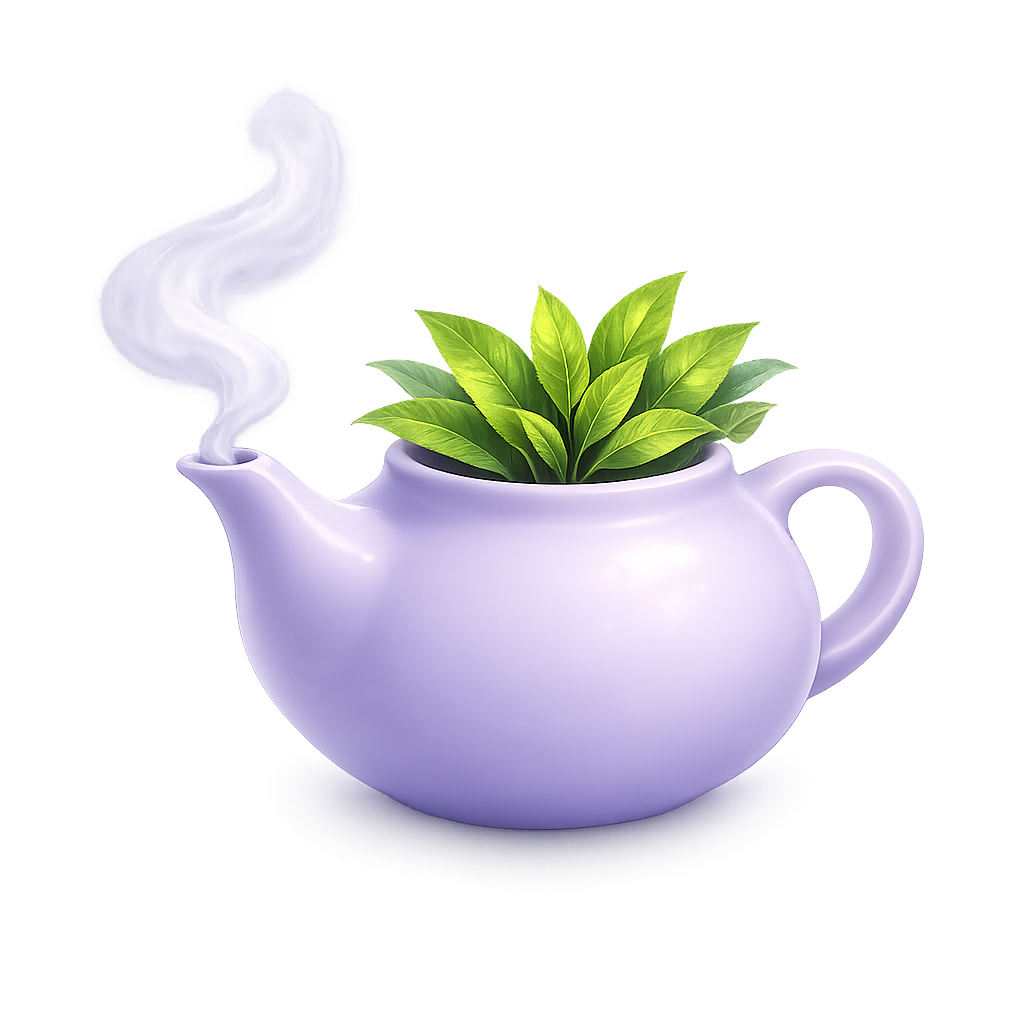
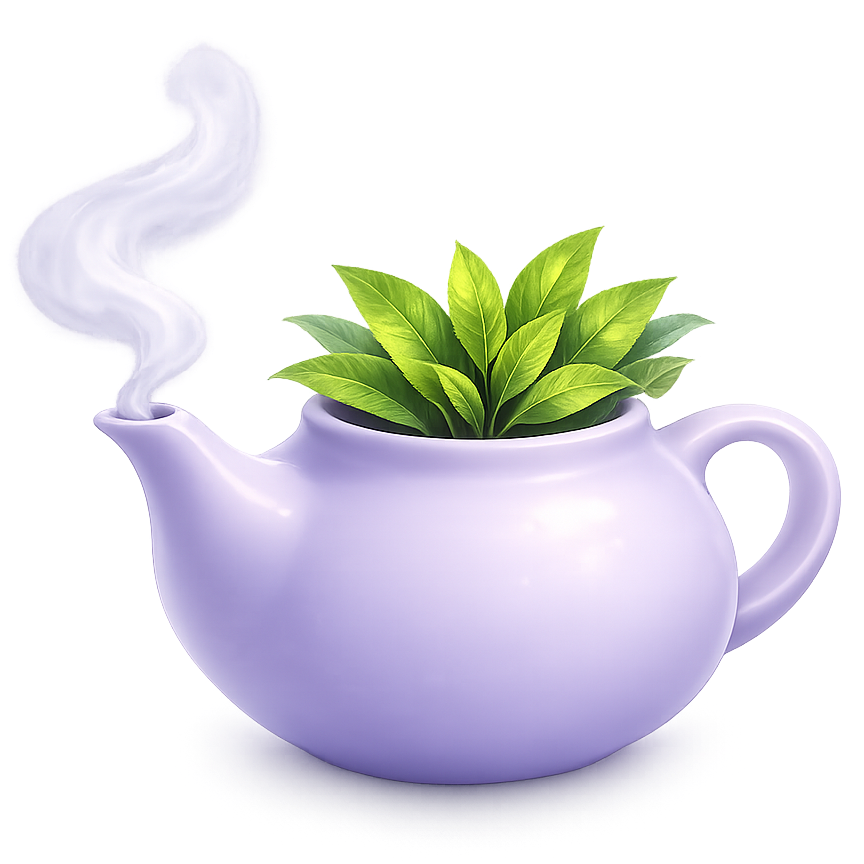
Fix install workflow and datastorage

diff --git a/.apps/priorities/index.html b/.apps/priorities/index.html
@@ -121,6 +121,7 @@
     var FONT_KEY = 'wizardry.priorities.font';
     var UI_SCALE_KEY = 'wizardry.priorities.uiScale';
     var TEXT_SCALE_KEY = 'wizardry.priorities.textScale';
+    var ROOT_KEY = 'priorities.root';
     var THEME_ASSET_VERSION = 'priorities20260220a';
     var DEFAULT_THEMES = [
       'adept', 'alchemist', 'archmage', 'athenian', 'chronomancer', 'conjurer', 'druid',
@@ -162,23 +163,81 @@
       windowWidthRequested: 0,
       windowHeightRequested: 640,
       windowAutoGrowTimer: null,
-      windowSizingReady: false
+      windowSizingReady: false,
+      uiPrefs: {},
+      rootPrefSaveTimer: null
     };
 
-    function loadStorage(key) {
+    function parseKeyValueText(blob) {
+      var out = {};
+      String(blob || '').split('\n').forEach(function (line) {
+        if (!line) {
+          return;
+        }
+        var idx = line.indexOf('=');
+        if (idx <= 0) {
+          return;
+        }
+        out[line.slice(0, idx)] = line.slice(idx + 1);
+      });
+      return out;
+    }
+
+    function prefNameForStorageKey(storageKey) {
+      if (storageKey === THEME_KEY) return 'theme';
+      if (storageKey === FONT_KEY) return 'font';
+      if (storageKey === UI_SCALE_KEY || storageKey === TEXT_SCALE_KEY) return 'ui_scale';
+      if (storageKey === ROOT_KEY) return 'root';
+      return '';
+    }
+
+    function prefValue(prefName, fallback) {
+      var value = state.uiPrefs[prefName];
+      if (typeof value === 'string' && value !== '') {
+        return value;
+      }
+      return fallback || '';
+    }
+
+    async function persistUiPref(prefName, value) {
+      if (!prefName || !hasBridge()) {
+        return;
+      }
       try {
-        return window.localStorage.getItem(key) || '';
+        await runBackend(['set-ui-pref', prefName, String(value || '')]);
       } catch (_) {
-        return '';
+        return;
       }
     }
 
-    function saveStorage(key, value) {
-      try {
-        window.localStorage.setItem(key, value);
-      } catch (_) {
-        // Ignore storage failures.
+    async function loadUiPrefs() {
+      if (!hasBridge()) {
+        state.uiPrefs = {};
+        return;
       }
+      try {
+        var result = await runBackend(['get-ui-prefs']);
+        state.uiPrefs = parseKeyValueText((result && result.stdout) || '');
+      } catch (_) {
+        state.uiPrefs = {};
+      }
+    }
+
+    function saveStorage(storageKey, value) {
+      var prefName = prefNameForStorageKey(storageKey);
+      if (!prefName) {
+        return;
+      }
+      state.uiPrefs[prefName] = String(value || '');
+      persistUiPref(prefName, state.uiPrefs[prefName]);
+    }
+
+    function loadStorage(storageKey) {
+      var prefName = prefNameForStorageKey(storageKey);
+      if (!prefName) {
+        return '';
+      }
+      return prefValue(prefName, '');
     }
 
     function clampTextScale(value) {
@@ -2068,7 +2127,7 @@
       }
       var currentRoot = String(state.root || rootInputValue() || '.').trim() || '.';
       var currentNormalized = normalizeRootPath(currentRoot);
-      var ceiling = normalizeRootPath(state.rootCeiling || loadStorage('priorities.root') || '');
+      var ceiling = normalizeRootPath(state.rootCeiling || loadStorage(ROOT_KEY) || '');
       if (ceiling && currentNormalized === ceiling) {
         up.classList.add('hidden');
         return;
@@ -2088,7 +2147,7 @@
 
     function drillUp() {
       var currentRoot = String(state.root || rootInputValue() || '.').trim() || '.';
-      var ceiling = normalizeRootPath(state.rootCeiling || loadStorage('priorities.root') || '');
+      var ceiling = normalizeRootPath(state.rootCeiling || loadStorage(ROOT_KEY) || '');
       if (ceiling && normalizeRootPath(currentRoot) === ceiling) {
         updateDrillUpVisibility();
         return;
@@ -2115,7 +2174,7 @@
       state.editingPath = '';
       state.pendingRenamePath = '';
       if (options.persistRoot !== false) {
-        saveStorage('priorities.root', state.root);
+        saveStorage(ROOT_KEY, state.root);
         state.rootCeiling = normalizeRootPath(state.root);
       }
       updateTitleFromRoot();
@@ -2126,9 +2185,19 @@
       return render();
     }
 
+    function schedulePersistRootPref(value) {
+      if (state.rootPrefSaveTimer) {
+        clearTimeout(state.rootPrefSaveTimer);
+      }
+      state.rootPrefSaveTimer = setTimeout(function () {
+        state.rootPrefSaveTimer = null;
+        saveStorage(ROOT_KEY, value);
+      }, 220);
+    }
+
     function persistRootInputOnly() {
       var value = rootInputValue();
-      saveStorage('priorities.root', value);
+      schedulePersistRootPref(value);
       state.rootCeiling = normalizeRootPath(value);
       updateTitleFromRoot();
       updateDrillUpVisibility();
@@ -2163,7 +2232,7 @@
     function showStartupIfNeeded() {
       var modal = document.getElementById('startup-modal');
       var startupPath = document.getElementById('startup-path');
-      var saved = loadStorage('priorities.root');
+      var saved = loadStorage(ROOT_KEY);
       state.rootCeiling = normalizeRootPath(saved || '');
 
       if (saved) {
@@ -2195,6 +2264,7 @@
 
     window.addEventListener('DOMContentLoaded', async function () {
       requestWindowShape();
+      await loadUiPrefs();
       state.activeTheme = String(loadStorage(THEME_KEY) || 'psionic').toLowerCase().trim();
       await loadThemes();
       applyTheme(state.activeTheme);
@@ -2235,6 +2305,10 @@
         if (state.windowAutoGrowTimer) {
           clearTimeout(state.windowAutoGrowTimer);
           state.windowAutoGrowTimer = null;
+        }
+        if (state.rootPrefSaveTimer) {
+          clearTimeout(state.rootPrefSaveTimer);
+          state.rootPrefSaveTimer = null;
         }
       });
       document.getElementById('refresh').addEventListener('click', setRootAndRefresh);

diff --git a/.apps/virtual-redditor/index.html b/.apps/virtual-redditor/index.html
@@ -504,6 +504,12 @@
     var MODEL_INSTALL_KEY = 'wizardry.virtual_redditor.models.installed';
     var LEFT_RAIL_WIDTH_KEY = 'wizardry.virtual_redditor.left_rail.width';
     var PROFILES_CACHE_KEY = 'wizardry.virtual_redditor.profiles.cache';
+    var UI_PREF_MAP = {
+      'wizardry.virtual_redditor.theme': 'theme',
+      'wizardry.virtual_redditor.models.installed': 'models_installed',
+      'wizardry.virtual_redditor.left_rail.width': 'left_rail_width',
+      'wizardry.virtual_redditor.profiles.cache': 'profiles_cache'
+    };
     var THEME_ASSET_VERSION = 'vr20260221a';
     var DEFAULT_GLOBAL_INSTRUCTIONS = (
       '# Virtual Redditor Manifesto\n\n' +
@@ -555,7 +561,8 @@
       installedModels: {},
       activeModel: 'llama3.1:8b',
       activeTheme: 'psionic',
-      leftRailWidth: parseInt(loadStorage(LEFT_RAIL_WIDTH_KEY), 10) || 320,
+      leftRailWidth: 320,
+      uiPrefs: {},
       refreshInFlight: false,
       statusRenderSig: '',
       profilesRenderSig: '',
@@ -604,17 +611,64 @@
       if (!isTabVisible(state.activeTab)) setActiveTab('persona');
     }
 
+    function prefNameForStorageKey(key) {
+      return UI_PREF_MAP[key] || '';
+    }
+
+    function parseKeyValueText(blob) {
+      var out = {};
+      String(blob || '').split('\n').forEach(function (line) {
+        if (!line) return;
+        var idx = line.indexOf('=');
+        if (idx <= 0) return;
+        out[line.slice(0, idx)] = line.slice(idx + 1);
+      });
+      return out;
+    }
+
+    function prefValue(name, fallback) {
+      var value = state.uiPrefs[name];
+      if (typeof value === 'string' && value !== '') {
+        return value;
+      }
+      return fallback === undefined ? null : fallback;
+    }
+
     function loadStorage(key) {
-      try { return window.localStorage ? window.localStorage.getItem(key) : null; } catch (_) { return null; }
+      var prefName = prefNameForStorageKey(key);
+      if (!prefName) return null;
+      return prefValue(prefName, null);
+    }
+
+    async function persistUiPref(prefName, value) {
+      if (!prefName || !hasBridge()) {
+        return;
+      }
+      try {
+        await runBackend('set-ui-pref', [prefName, String(value || '')]);
+      } catch (_) {
+        return;
+      }
     }
 
     function saveStorage(key, value) {
+      var prefName = prefNameForStorageKey(key);
+      if (!prefName) return;
+      state.uiPrefs[prefName] = String(value || '');
+      persistUiPref(prefName, state.uiPrefs[prefName]);
+    }
+
+    async function loadUiPrefs() {
+      if (!hasBridge()) {
+        state.uiPrefs = {};
+        return;
+      }
       try {
-        if (window.localStorage) {
-          if (value === null || value === undefined || value === '') window.localStorage.removeItem(key);
-          else window.localStorage.setItem(key, String(value));
-        }
-      } catch (_) {}
+        var result = await runBackend('get-ui-prefs', []);
+        state.uiPrefs = parseKeyValueText((result && result.stdout) || '');
+      } catch (_) {
+        state.uiPrefs = {};
+      }
     }
 
     function loadProfilesCache() {
@@ -3867,6 +3921,11 @@
     }
 
     async function boot() {
+      await loadUiPrefs();
+      var savedLeftRailWidth = parseInt(loadStorage(LEFT_RAIL_WIDTH_KEY), 10);
+      if (Number.isFinite(savedLeftRailWidth) && savedLeftRailWidth > 0) {
+        state.leftRailWidth = savedLeftRailWidth;
+      }
       var storedTheme = (loadStorage(THEME_KEY) || '').toLowerCase();
       if (/^[a-z0-9_-]+$/.test(storedTheme)) state.activeTheme = storedTheme;
       ensureActiveThemeInList();